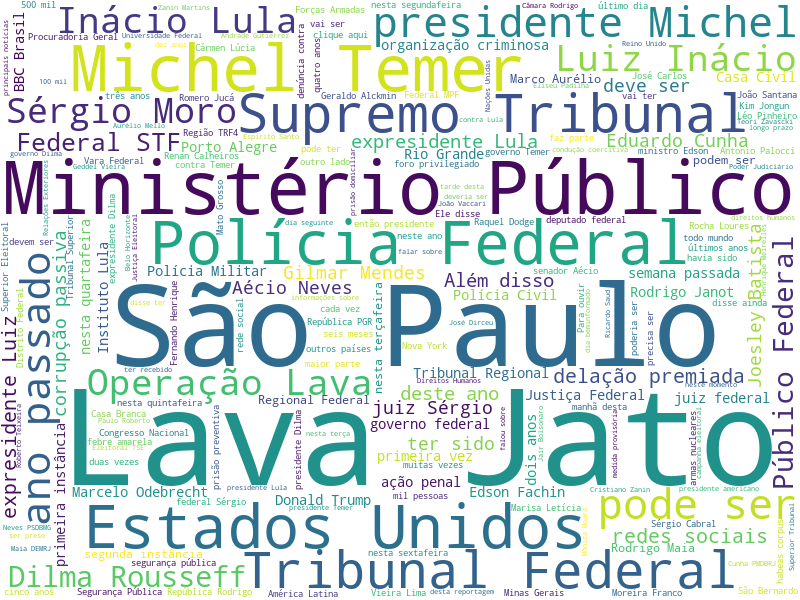
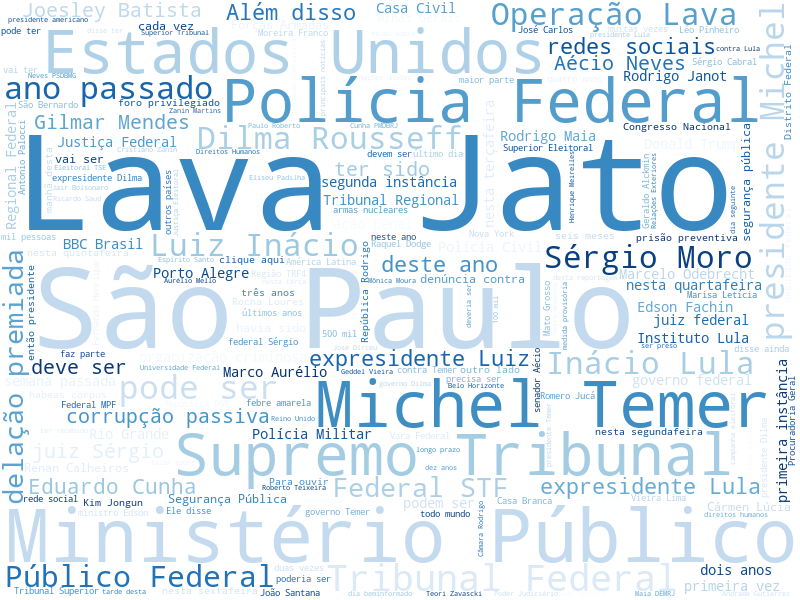
stuff

diff --git a/components/plots/common_words.py b/components/plots/common_words.py
@@ -93,20 +93,20 @@ def display_chart_bigrams(df_true, df_fake):
     df = pd.concat([df_true, df_fake])
     colors = ["blue" if veracity == "True" else "red" for veracity in df["Veracity"]]
     
-    fig = make_subplots(rows=1, cols=3, subplot_titles=["True", "True/Fake", "Fake"], shared_yaxes=True)
+    fig = make_subplots(rows=1, cols=3, subplot_titles=["True", "True/Fake", "Fake"], shared_xaxes=True)
 
     fig.add_trace(
-        go.Bar(x=df_true["Bigram"], y=df_true["Count"], name="True"),
+        go.Bar(x=df_true["Count"], y=df_true["Bigram"], name="True", orientation='h'),
         row=1, col=1
     )
 
     fig.add_trace(
-        go.Bar(x=df["Bigram"], y=df["Count"], marker=dict(color = colors)),
+        go.Bar(x=df["Count"], y=df["Bigram"], marker=dict(color = colors), orientation='h'),
         row=1, col=2
     )
 
     fig.add_trace(
-        go.Bar(x=df_fake["Bigram"], y=df_fake["Count"], name="Fake", marker=dict(color= "red")),
+        go.Bar(x=df_fake["Count"], y=df_fake["Bigram"], name="Fake", marker=dict(color= "red"), orientation='h'),
         row=1, col=3
     )
     fig.update_layout(margin=dict(l=20, r=20, t=20, b=20))
@@ -126,7 +126,7 @@ def display_wordcloud_words():
     df_fake = remove_common_stop_words(df_fake)
     
     wordcloud_image = "./assets/wordcloud_true_words2.png"
-    wordcloud_true = WordCloud(width=800, height=600,background_color="white")
+    wordcloud_true = WordCloud(width=800, height=600,background_color="white", colormap="Blues")
     words = {}
     for i, row in df_true.iterrows():
         words[row["Word"]] = row["Count"]
@@ -134,7 +134,7 @@ def display_wordcloud_words():
     wordcloud_true.to_file(wordcloud_image)
     
     wordcloud_image = "./assets/wordcloud_fake_words2.png"
-    wordcloud_fake = WordCloud(width=800, height=600,background_color="white")
+    wordcloud_fake = WordCloud(width=800, height=600,background_color="white", colormap="Reds")
     words = {}
     for i, row in df_fake.iterrows():
         words[row["Word"]] = row["Count"]
@@ -148,7 +148,7 @@ def display_wordcloud_bigrams():
     df_fake = remove_common_stop_words(df_fake)
     
     wordcloud_image = "./assets/wordcloud_true_bigrams.png"
-    wordcloud_true = WordCloud(width=800, height=600,background_color="white")
+    wordcloud_true = WordCloud(width=800, height=600,background_color="white", colormap="Blues")
     words = {}
     for i, row in df_true.iterrows():
         words[row["Bigram"]] = row["Count"]
@@ -156,12 +156,11 @@ def display_wordcloud_bigrams():
     wordcloud_true.to_file(wordcloud_image)
     
     wordcloud_image = "./assets/wordcloud_fake_bigrams.png"
-    wordcloud_fake = WordCloud(width=800, height=600,background_color="white")
+    wordcloud_fake = WordCloud(width=800, height=600,background_color="white", colormap="Reds")
     words = {}
     for i, row in df_fake.iterrows():
         words[row["Bigram"]] = row["Count"]
     wordcloud_fake = wordcloud_fake.generate_from_frequencies(words)
     wordcloud_fake.to_file(wordcloud_image)
-    
     
     

diff --git a/components/pages.py b/components/pages.py
@@ -51,9 +51,18 @@ page1_3d = meta.display_charts_3d_page_1(df_true, df_fake)
 page2_3d = meta.display_charts_3d_page_2(df_true, df_fake)
 
 home = html.Div([
-    html.H2("Felipe Boff Nunes"),
-    html.P("01/06/2020"),
-    html.P("A pre-analysis of linkedin profiles for creation of a marketing campaign.")
+    html.H2("Dados das Fake News Brasileiras"),
+    html.P("26/06/2020"),
+    html.H4("Fake.Br Corpus"),
+    html.P("Como ponto de partida vamos utilizar a base de dados do Fake.Br Corpus,"),
+    html.P("que foi a base criada pelo Núcleo Interinstitucional de Linguística Computacional"),
+    html.P(" (NILC) para treinar uma ferramenta de detecção automática de fake news em português."),
+    html.P(" Esta base é composta por 7.200 notícias (3.600 verdadeiras + 3.600 falsas)"),
+    html.P(" que foram coletadas nos mais diversos diários do Brasil."),
+    html.H4("Perguntas"),
+    html.P("Existe algum período onde o número de fake news são maiores?"),
+    html.P("Existe relação entre a escrita correta e as fake news?"),
+    html.P("Quais são os temas com mais fake news?")
 ], style={"margin": "2em"})
 
 page1 = html.Div([

diff --git a/app.py b/app.py
@@ -32,7 +32,7 @@ sidebar = html.Div(
         html.H2("Fake News", className="display-5"),
         html.Hr(),
         html.P(
-            "An interface analysis of brazilian fake news.", className="lead", style={'fontSize' : '15px'}
+            "An interface for analysis of Brazilian fake news.", className="lead", style={'fontSize' : '15px'}
         ),
         dbc.Nav(
             [
